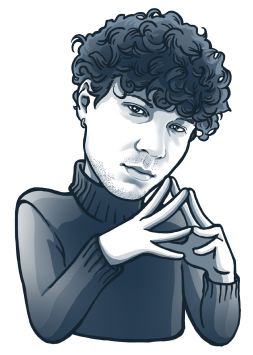
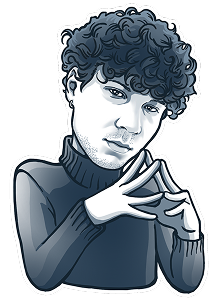
Add IDVault button
Which redirects to App Store

diff --git a/Sources/romanmazeev.com/Pages/PersonalPage.swift b/Sources/romanmazeev.com/Pages/PersonalPage.swift
@@ -45,19 +45,38 @@ struct PersonalPage: Page {
                 }
 
                 Class("avatar") {
-                    Width(.px(71.66))
-                    Height(.px(100.7))
+                    Height(.px(100))
+                    Width(.px(72))
                     Margin(top: .zero, right: .px(12), bottom: .px(12), left: .zero)
                 }
 
                 Footer {
                     Margin(.auto)
                     Display(.flex)
-                    JustifyContent(.center)
+                    FlexDirection(.column)
+                    AlignItems(.center)
                 }
 
                 Class("social") {
                     Padding(.px(12))
+                }
+
+                Class("social-row") {
+                    Display(.flex)
+                    JustifyContent(.center)
+                    AlignItems(.center)
+                }
+
+                Class("id-vault") {
+                    Display(.flex)
+                    JustifyContent(.center)
+                    AlignItems(.center)
+                    Margin(top: .px(12), right: .zero, bottom: .zero, left: .zero)
+                }
+
+                Class("id-vault-img") {
+                    Width(.px(40))
+                    Height(.px(40))
                 }
             }
 
@@ -106,36 +125,46 @@ struct PersonalPage: Page {
                 }
 
                 Footer {
-                    A {
-                        Img(src: "public/social/mail.svg", alt: "Mail")
+                    Div {
+                        A {
+                            Img(src: "public/social/mail.svg", alt: "Mail")
+                        }
+                        .href("mailto:me@romanmazeev.com")
+                        .class("social")
+
+                        A {
+                            Img(src: "public/social/github.svg", alt: "GitHub")
+                        }
+                        .href("https://github.com/romanmazeev")
+                        .class("social")
+
+                        A {
+                            Img(src: "public/social/twitter.svg", alt: "Twitter")
+                        }
+                        .href("https://twitter.com/romanmazeev")
+                        .class("social")
+
+                        A {
+                            Img(src: "public/social/linkedin.svg", alt: "LinkedIn")
+                        }
+                        .href("https://www.linkedin.com/in/romanmazeev")
+                        .class("social")
+
+                        A {
+                            Img(src: "public/social/mastodon.svg", alt: "Mastodon")
+                        }
+                        .rel(.me)
+                        .href("https://mastodon.social/@romanmazeev")
+                        .class("social")
                     }
-                    .href("mailto:me@romanmazeev.com")
-                    .class("social")
+                    .class("social-row")
 
                     A {
-                        Img(src: "public/social/github.svg", alt: "GitHub")
+                        Img(src: "public/IDVaultAppIcon.png", alt: "ID Vault")
+                            .class("id-vault-img")
                     }
-                    .href("https://github.com/romanmazeev")
-                    .class("social")
-
-                    A {
-                        Img(src: "public/social/twitter.svg", alt: "Twitter")
-                    }
-                    .href("https://twitter.com/romanmazeev")
-                    .class("social")
-
-                    A {
-                        Img(src: "public/social/linkedin.svg", alt: "LinkedIn")
-                    }
-                    .href("https://www.linkedin.com/in/romanmazeev")
-                    .class("social")
-
-                    A {
-                        Img(src: "public/social/mastodon.svg", alt: "Mastodon")
-                    }
-                    .rel(.me)
-                    .href("https://mastodon.social/@romanmazeev")
-                    .class("social")
+                    .href("https://apps.apple.com/app/id6744865269")
+                    .class("id-vault")
                 }
             }
         }
